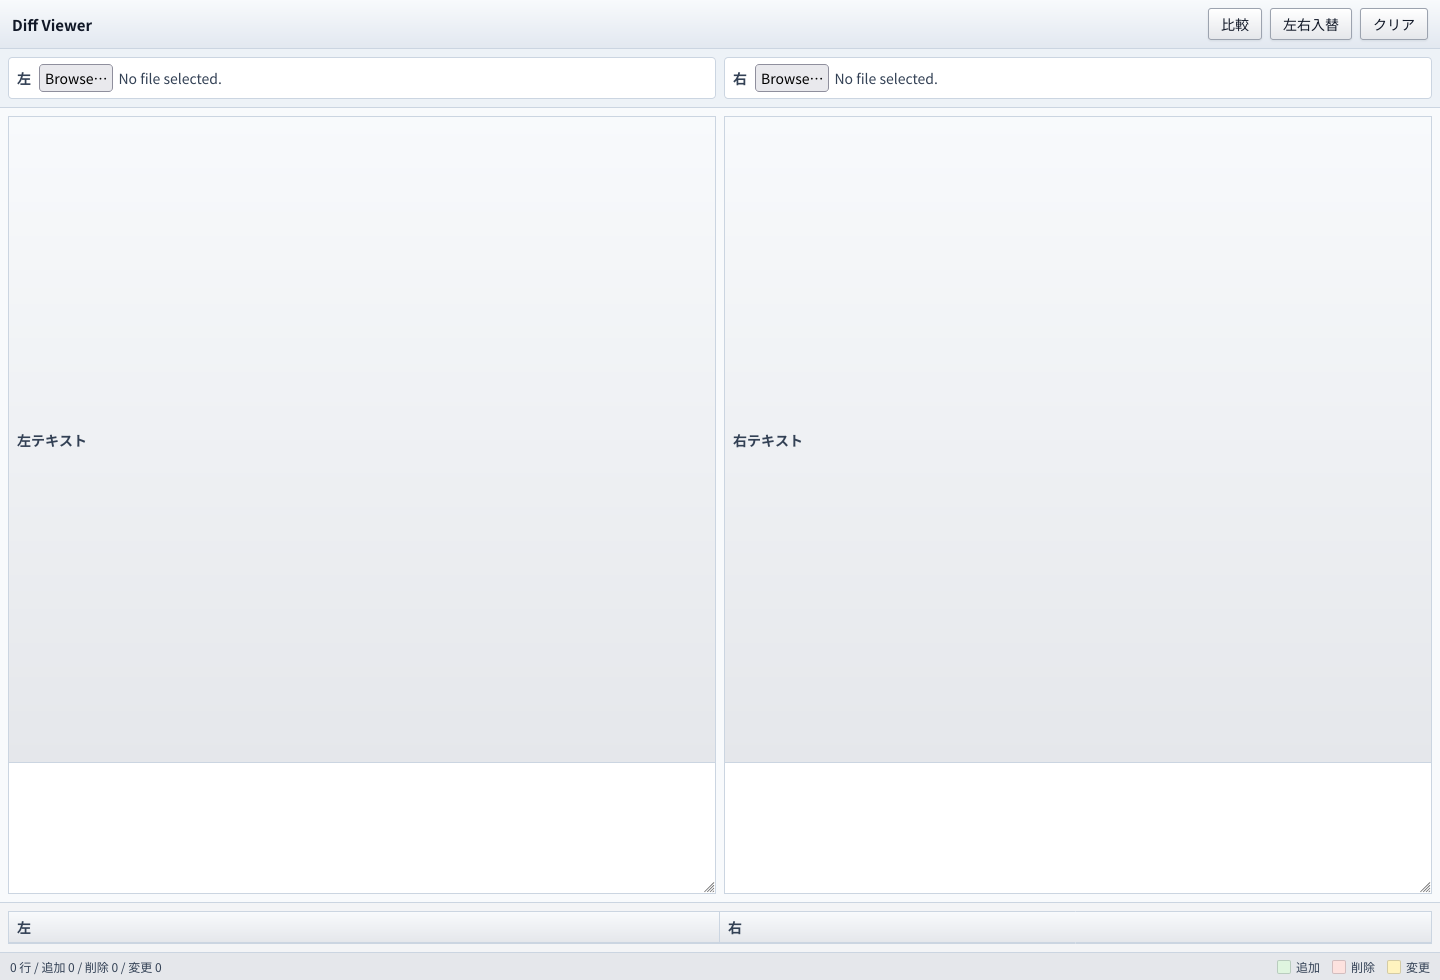
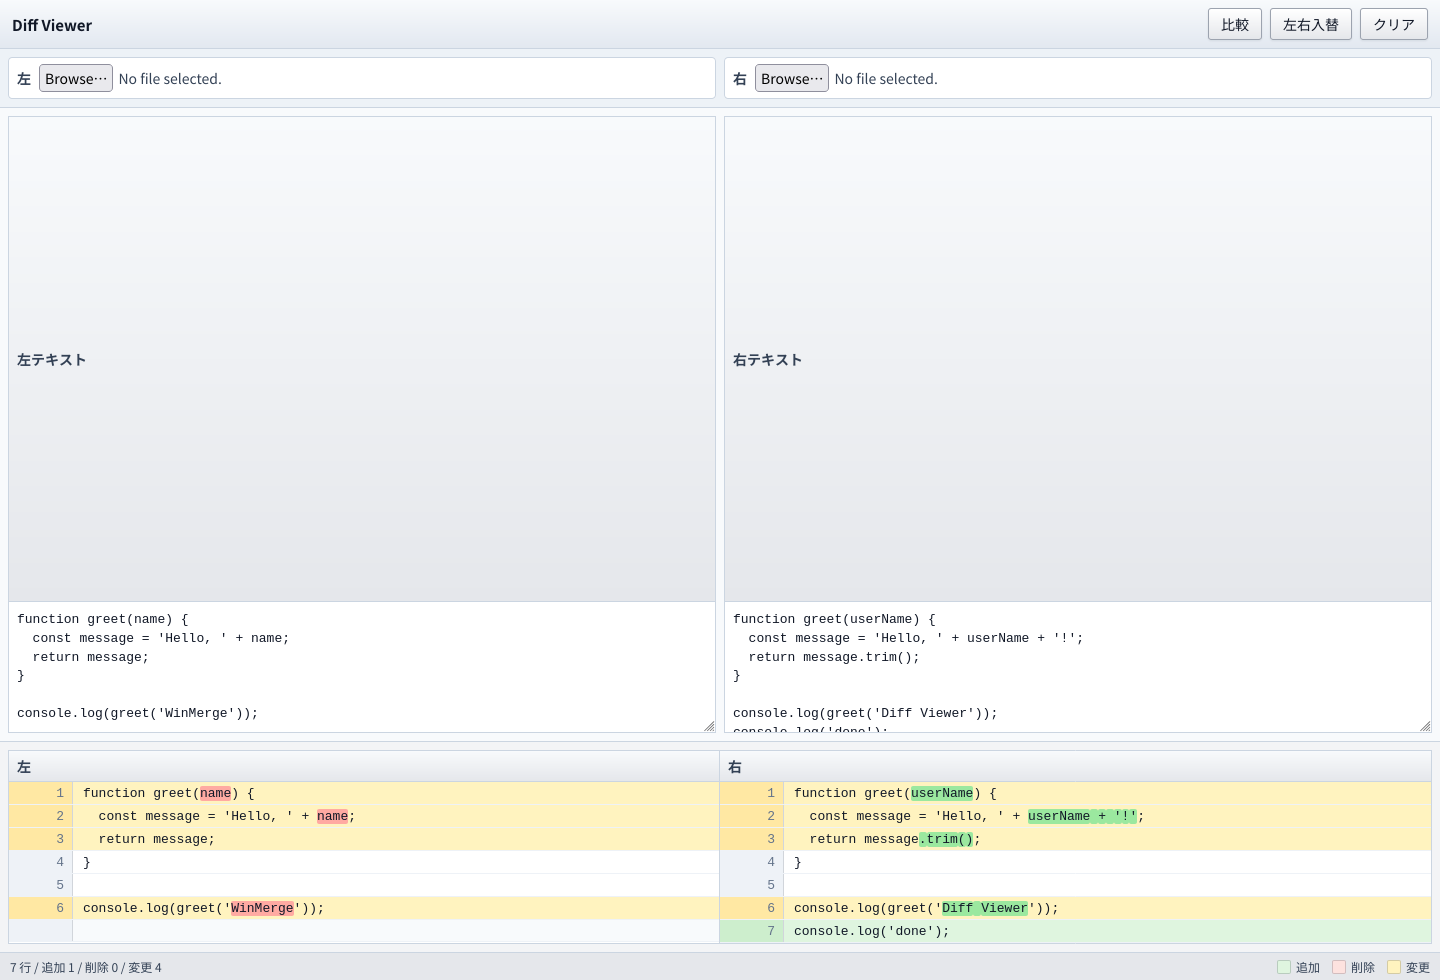
Update diff screenshot

diff --git a/index.html b/index.html
@@ -701,6 +701,26 @@
       leftPane.addEventListener("scroll", () => syncScroll(leftPane, rightPane));
       rightPane.addEventListener("scroll", () => syncScroll(rightPane, leftPane));
 
+      if (new URLSearchParams(window.location.search).get("demo") === "1") {
+        leftInput.value = [
+          "function greet(name) {",
+          "  const message = 'Hello, ' + name;",
+          "  return message;",
+          "}",
+          "",
+          "console.log(greet('WinMerge'));"
+        ].join("\n");
+        rightInput.value = [
+          "function greet(userName) {",
+          "  const message = 'Hello, ' + userName + '!';",
+          "  return message.trim();",
+          "}",
+          "",
+          "console.log(greet('Diff Viewer'));",
+          "console.log('done');"
+        ].join("\n");
+      }
+
       renderDiff();
     })();
   </script>
